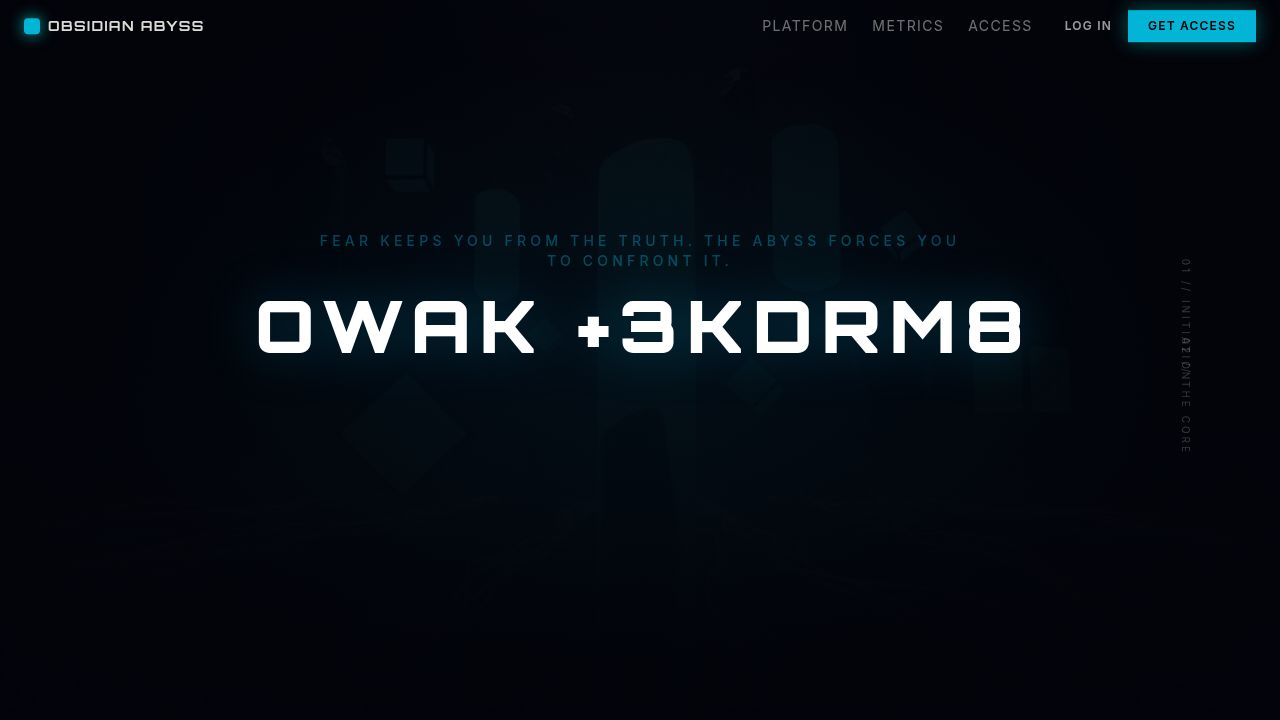
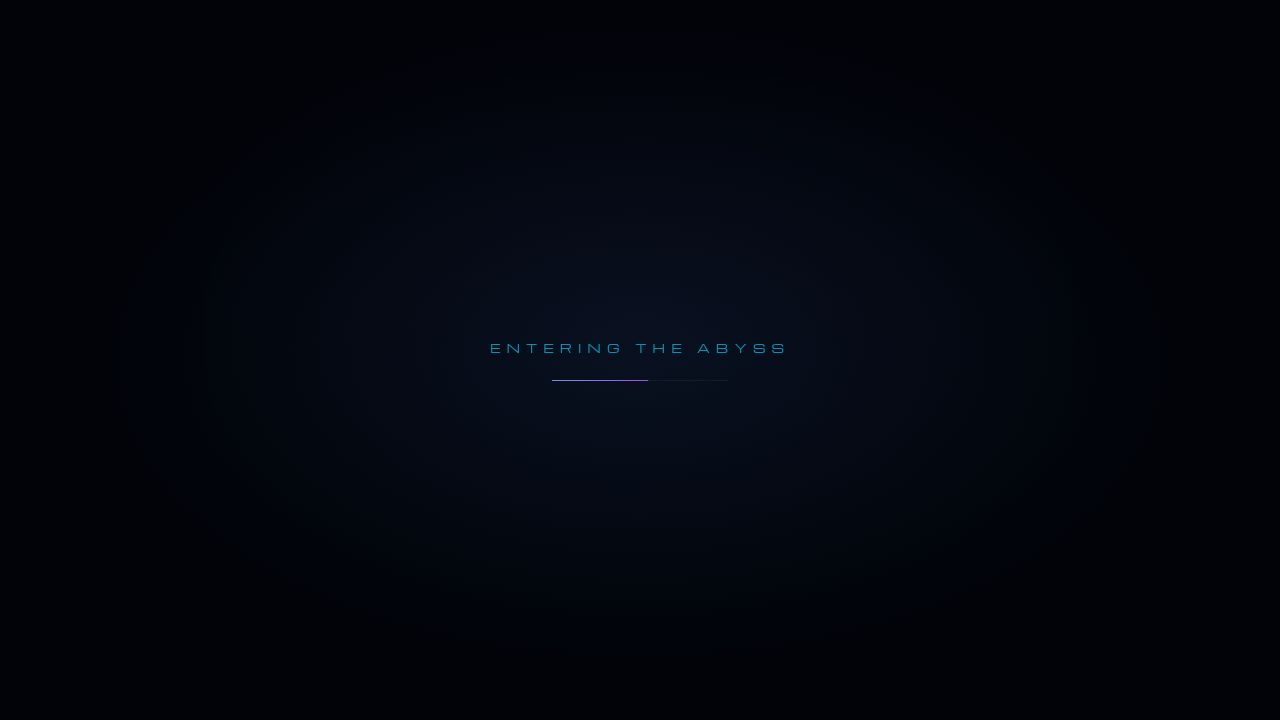
Add a new session-based intro animation and refine visual elements
Introduces an `IntroReveal` component with session storage logic, modifies hero section styling with new gradients and animations, adjusts text styles, and adds a violet accent glow across various components.

Replit-Commit-Author: Agent
Replit-Commit-Session-Id: 15fc1357-55f2-481d-8180-1dea514835fb
Replit-Commit-Checkpoint-Type: full_checkpoint
Replit-Commit-Event-Id: 79cf92e8-4d1e-4c0f-bda1-abc346bfbc29
Replit-Commit-Screenshot-Url: https://storage.googleapis.com/screenshot-production-us-central1/575f9791-67a5-445a-a9c3-686f1b00df7f/15fc1357-55f2-481d-8180-1dea514835fb/hy6auyD
Replit-Helium-Checkpoint-Created: true

diff --git a/artifacts/obsidian-abyss/src/components/ui/intro-reveal.tsx b/artifacts/obsidian-abyss/src/components/ui/intro-reveal.tsx
@@ -1,0 +1,74 @@
+import { useState, useEffect } from "react";
+import { motion, AnimatePresence } from "framer-motion";
+
+const STORAGE_KEY = "oa-intro-seen";
+
+function hasSeenIntro() {
+  try {
+    return !!sessionStorage.getItem(STORAGE_KEY);
+  } catch {
+    return false;
+  }
+}
+
+function markIntroSeen() {
+  try {
+    sessionStorage.setItem(STORAGE_KEY, "1");
+  } catch {
+    /* storage unavailable — intro simply replays on next load */
+  }
+}
+
+export function IntroReveal() {
+  const [visible, setVisible] = useState(() => {
+    if (typeof window === "undefined") return false;
+    if (window.matchMedia("(prefers-reduced-motion: reduce)").matches) return false;
+    return !hasSeenIntro();
+  });
+
+  useEffect(() => {
+    if (!visible) return;
+    document.body.style.overflow = "hidden";
+    const t = setTimeout(() => {
+      setVisible(false);
+      markIntroSeen();
+    }, 1700);
+    return () => clearTimeout(t);
+  }, [visible]);
+
+  return (
+    <AnimatePresence onExitComplete={() => { document.body.style.overflow = ""; }}>
+      {visible && (
+        <motion.div
+          initial={{ opacity: 1 }}
+          exit={{ opacity: 0, filter: "blur(10px)" }}
+          transition={{ duration: 0.9, ease: "easeInOut" }}
+          className="fixed inset-0 z-[100] bg-[#010309] flex flex-col items-center justify-center"
+          aria-hidden="true"
+        >
+          {/* Faint atmospheric glow */}
+          <div className="absolute inset-0 bg-[radial-gradient(ellipse_at_center,rgba(0,200,255,0.05),transparent_60%)]" />
+          <div className="absolute inset-0 bg-[radial-gradient(ellipse_at_50%_45%,rgba(168,85,247,0.05),transparent_55%)]" />
+
+          <motion.div
+            initial={{ opacity: 0, y: 8 }}
+            animate={{ opacity: 1, y: 0 }}
+            transition={{ duration: 0.8, ease: "easeOut" }}
+            className="font-tech text-primary/70 text-[10px] md:text-xs tracking-[0.5em] uppercase mb-6 relative"
+          >
+            Entering the Abyss
+          </motion.div>
+
+          <div className="relative h-[1px] w-44 overflow-hidden bg-white/5">
+            <motion.div
+              initial={{ x: "-100%" }}
+              animate={{ x: "0%" }}
+              transition={{ duration: 1.3, ease: "easeInOut" }}
+              className="absolute inset-0 bg-gradient-to-r from-[rgba(0,200,255,0.9)] to-[rgba(168,85,247,0.9)] shadow-[0_0_14px_rgba(0,200,255,0.6)]"
+            />
+          </div>
+        </motion.div>
+      )}
+    </AnimatePresence>
+  );
+}

diff --git a/artifacts/obsidian-abyss/src/components/sections/hero.tsx b/artifacts/obsidian-abyss/src/components/sections/hero.tsx
@@ -14,22 +14,26 @@ export function Hero() {
   const y = useTransform(scrollYProgress, [0, 1], ["0%", "50%"]);
   const opacity = useTransform(scrollYProgress, [0, 0.8], [1, 0]);
   const blur = useTransform(scrollYProgress, [0, 1], ["blur(0px)", "blur(10px)"]);
+  const scale = useTransform(scrollYProgress, [0, 1], [1, 0.82]);
 
   return (
     <section ref={containerRef} className="relative h-[100dvh] w-full overflow-hidden bg-[#010309] flex flex-col justify-center items-center">
       {/* Background Image & Effects */}
       <motion.div 
-        style={{ y, opacity, filter: blur }}
+        style={{ y, opacity, filter: blur, scale }}
         className="absolute inset-0 z-0"
       >
         <div 
           className="absolute inset-0 bg-contain bg-center bg-no-repeat opacity-[0.7]"
           style={{ backgroundImage: `url(${heroBg})` }}
         />
-        <div className="absolute inset-0 bg-gradient-to-b from-[#010309]/40 via-[#010309]/20 to-[#010309]" />
+        <div className="absolute inset-0 bg-gradient-to-b from-transparent from-[40%] via-[#010309]/95 via-[56%] to-[#010309]" />
         
         {/* Glow overlay */}
         <div className="absolute inset-0 bg-[radial-gradient(ellipse_at_center,rgba(0,200,255,0.04),transparent_65%)]" />
+
+        {/* Violet accent glow */}
+        <div className="absolute inset-0 bg-[radial-gradient(ellipse_at_50%_42%,rgba(168,85,247,0.06),transparent_55%)]" />
 
         {/* Vignette for deep abyss darkness */}
         <div className="absolute inset-0 bg-[radial-gradient(ellipse_at_center,transparent_45%,#010309_92%)]" />
@@ -51,7 +55,7 @@ export function Hero() {
           </p>
         </motion.div>
 
-        <h1 className="text-3xl sm:text-5xl md:text-6xl lg:text-7xl font-headline text-white tracking-[0.04em] leading-none whitespace-nowrap mb-10 drop-shadow-[0_0_25px_rgba(0,200,255,0.25)] pl-[0.04em]">
+        <h1 className="text-3xl sm:text-5xl md:text-6xl lg:text-7xl font-headline text-white tracking-[0.04em] leading-none whitespace-nowrap mb-10 [filter:drop-shadow(0_0_25px_rgba(0,200,255,0.2))_drop-shadow(0_0_45px_rgba(168,85,247,0.16))] pl-[0.04em]">
           <DecodeText text="BEAR WITNESS" delay={600} duration={1800} />
         </h1>
 
@@ -59,7 +63,7 @@ export function Hero() {
           initial={{ opacity: 0 }}
           animate={{ opacity: 1 }}
           transition={{ duration: 1, delay: 2.5 }}
-          className="text-white/60 text-lg md:text-xl max-w-2xl mx-auto mb-16 font-light tracking-wide leading-relaxed"
+          className="font-tech text-white/50 text-[10px] md:text-xs max-w-2xl mx-auto mb-16 tracking-[0.25em] uppercase leading-loose"
         >
           Descend into market clarity. Regime detection, 20 years of backtested data, non-custodial by design. Pure signal. No comfort.
         </motion.p>

diff --git a/artifacts/obsidian-abyss/src/components/sections/pricing.tsx b/artifacts/obsidian-abyss/src/components/sections/pricing.tsx
@@ -7,15 +7,22 @@ export function Pricing() {
     <section id="access" className="scroll-mt-24 py-32 bg-[#010309] relative flex flex-col items-center justify-center">
       <div className="absolute inset-0 pointer-events-none overflow-hidden">
         <div className="absolute top-1/2 left-1/2 -translate-x-1/2 -translate-y-1/2 w-[800px] h-[800px] bg-primary/10 rounded-full blur-[120px] mix-blend-screen" />
+        <div className="absolute top-1/3 left-1/3 w-[500px] h-[500px] bg-[rgba(168,85,247,0.08)] rounded-full blur-[120px] mix-blend-screen" />
       </div>
 
       <div className="container mx-auto px-6 relative z-10">
-        <div className="max-w-4xl mx-auto text-center mb-16">
+        <motion.div
+          initial={{ opacity: 0, y: 40 }}
+          whileInView={{ opacity: 1, y: 0 }}
+          viewport={{ once: true, margin: "-10%" }}
+          transition={{ duration: 0.8 }}
+          className="max-w-4xl mx-auto text-center mb-16"
+        >
           <h2 className="text-4xl md:text-6xl font-display font-bold text-white mb-6">
             <DecodeText text="THE COST OF TRUTH" />
           </h2>
           <p className="text-white/60 text-lg">One price. Complete access. No illusions.</p>
-        </div>
+        </motion.div>
 
         <motion.div 
           initial={{ opacity: 0, y: 50, scale: 0.95 }}

diff --git a/artifacts/obsidian-abyss/src/components/sections/stats.tsx b/artifacts/obsidian-abyss/src/components/sections/stats.tsx
@@ -58,12 +58,18 @@ export function Stats() {
       />
       
       <div className="container mx-auto px-6 relative z-10">
-        <div className="grid grid-cols-2 md:grid-cols-4 gap-12 md:gap-8">
+        <motion.div
+          initial={{ opacity: 0, y: 40 }}
+          whileInView={{ opacity: 1, y: 0 }}
+          viewport={{ once: true, margin: "-10%" }}
+          transition={{ duration: 0.8 }}
+          className="grid grid-cols-2 md:grid-cols-4 gap-12 md:gap-8"
+        >
           <AnimatedCounter value={3} label="Research Engines" />
           <AnimatedCounter value={7} label="Market Pairs" />
           <AnimatedCounter value="~20" label="Years Verified Data" />
           <AnimatedCounter value={0} label="Custody Risk" />
-        </div>
+        </motion.div>
       </div>
     </section>
   );

diff --git a/artifacts/obsidian-abyss/src/App.tsx b/artifacts/obsidian-abyss/src/App.tsx
@@ -6,6 +6,7 @@ import { TooltipProvider } from "@/components/ui/tooltip";
 import NotFound from "@/pages/not-found";
 import { Home } from "@/pages/home";
 import { Chrome } from "@/components/layout/chrome";
+import { IntroReveal } from "@/components/ui/intro-reveal";
 
 const queryClient = new QueryClient();
 
@@ -23,6 +24,7 @@ function App() {
     <QueryClientProvider client={queryClient}>
       <TooltipProvider>
         <WouterRouter base={import.meta.env.BASE_URL.replace(/\/$/, "")}>
+          <IntroReveal />
           <Chrome />
           <Router />
         </WouterRouter>

diff --git a/artifacts/obsidian-abyss/src/components/sections/modules.tsx b/artifacts/obsidian-abyss/src/components/sections/modules.tsx
@@ -55,7 +55,7 @@ export function Modules() {
           <h2 className="text-4xl md:text-6xl font-display font-bold text-white mb-6">
             <DecodeText text="THE ARSENAL" />
           </h2>
-          <div className="h-[1px] w-full bg-gradient-to-r from-primary/50 to-transparent max-w-3xl" />
+          <div className="h-[1px] w-full bg-gradient-to-r from-primary/50 via-[rgba(168,85,247,0.45)] to-transparent max-w-3xl" />
         </div>
 
         <div className="grid grid-cols-1 md:grid-cols-2 lg:grid-cols-3 gap-8">

diff --git a/.agents/memory/screenshot-tool-animations.md b/.agents/memory/screenshot-tool-animations.md
@@ -21,3 +21,14 @@ rendered empty spaces.
 - To confirm final state, reason from the animation code (does progress reach 1 and lock the final
   value?) rather than relying on a single screenshot. Add `prefers-reduced-motion` handling that
   jumps straight to the resolved text for accessibility + deterministic capture.
+
+# Full-screen intro/overlay reveals block hero screenshots
+
+A short on-load intro overlay (e.g. a ~1.7s + fade "Entering the Abyss" curtain) plays from frame
+zero on every fresh screenshot session, so the tool reliably captures the *overlay* instead of the
+page beneath it — retrying lands on the same frame, not progress.
+
+**How to apply:** give the overlay component a query-param escape hatch (e.g. skip when
+`window.location.search.includes("nointro")`) so you can screenshot `/?nointro` to verify the page
+underneath, then remove the hatch afterward. A `sessionStorage` once-per-session guard does NOT help
+the screenshot tool because each capture is a brand-new session with empty storage.